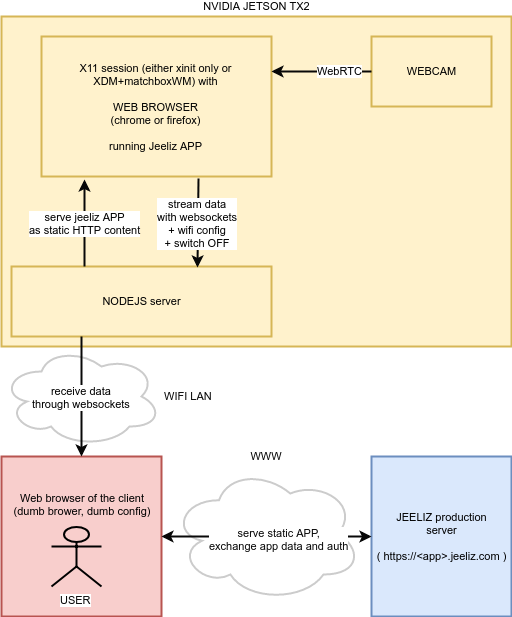
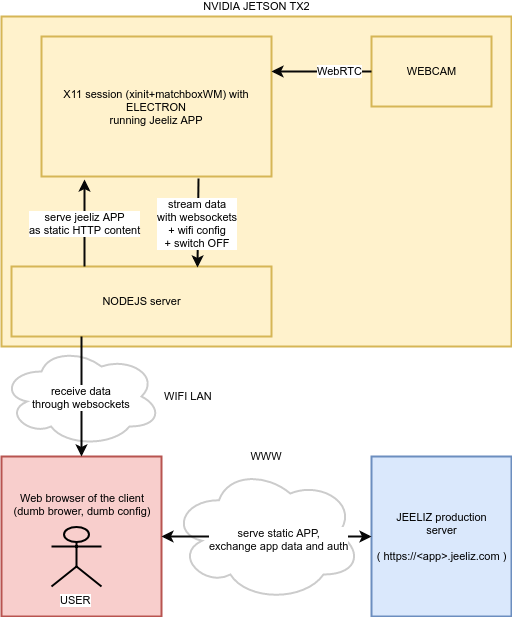
update architecture schema

Changed region(s): [[0.125, 0.0924, 0.4688, 0.2464]]

diff --git a/README.md b/README.md
@@ -13,8 +13,9 @@ We want to embed an application running with JavaScript/WebGL on a Nvidia Jetson
 
 With this project, we can setup the Jetson to run the application as an embedded application and possibly stream output data through websockets on a Wifi network. So we can transform a web application into an embedded application.
 
+<center>
 ![Architecture](images/archi.png?raw=true "Architecture")
-
+</center>
 
 ## Architecture
 
